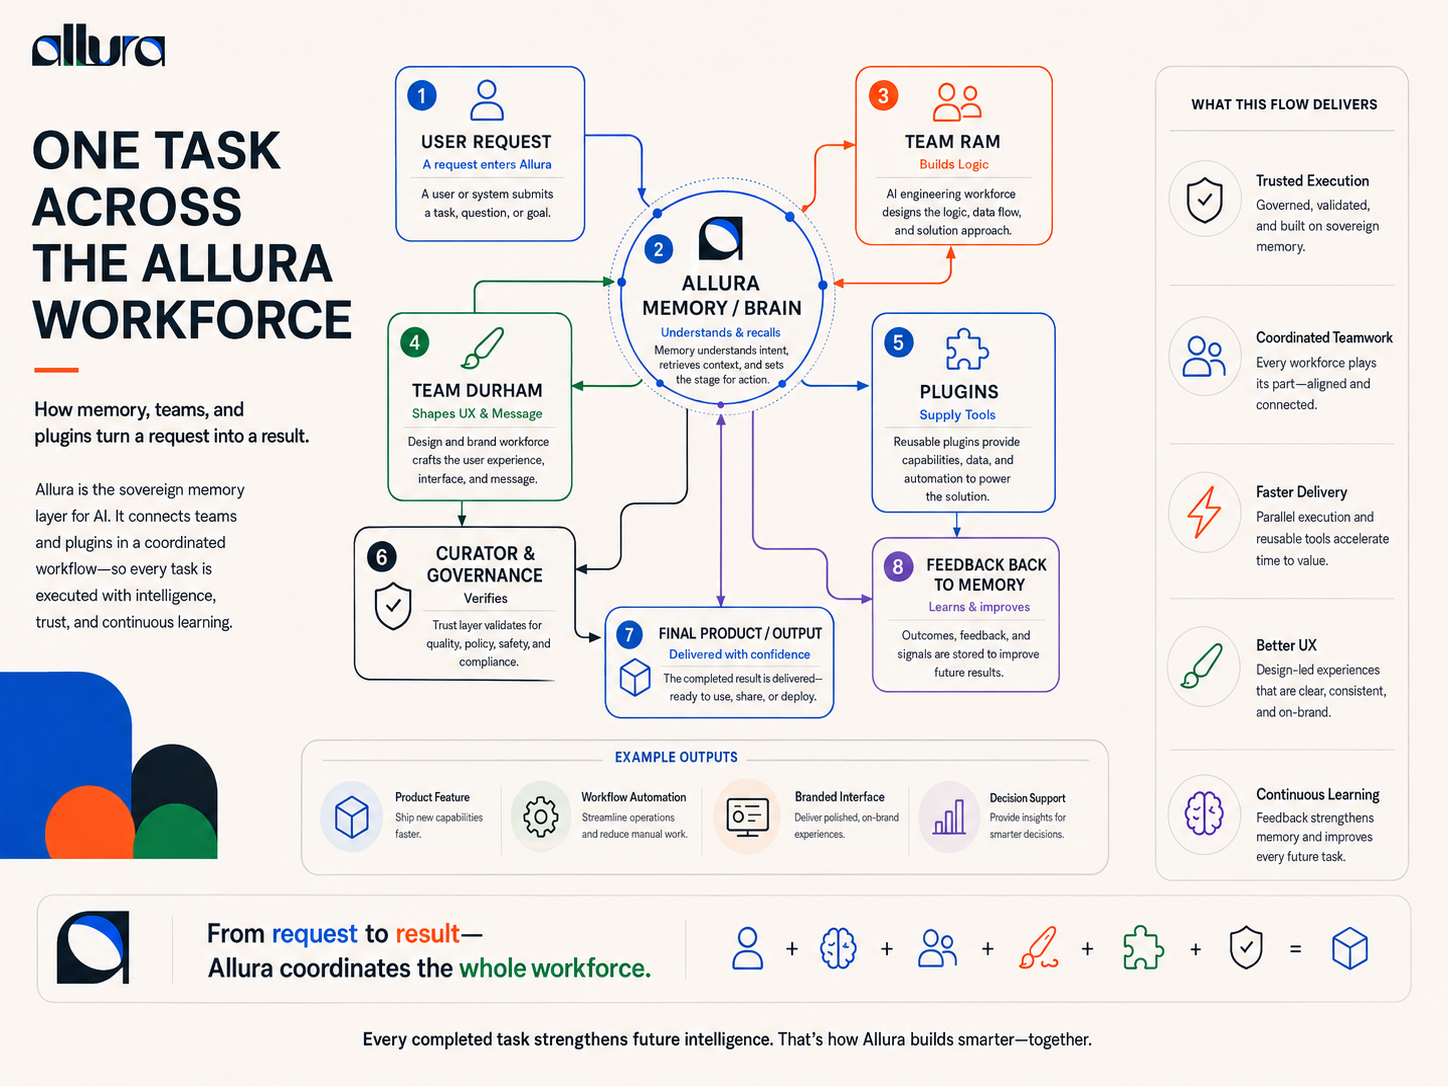
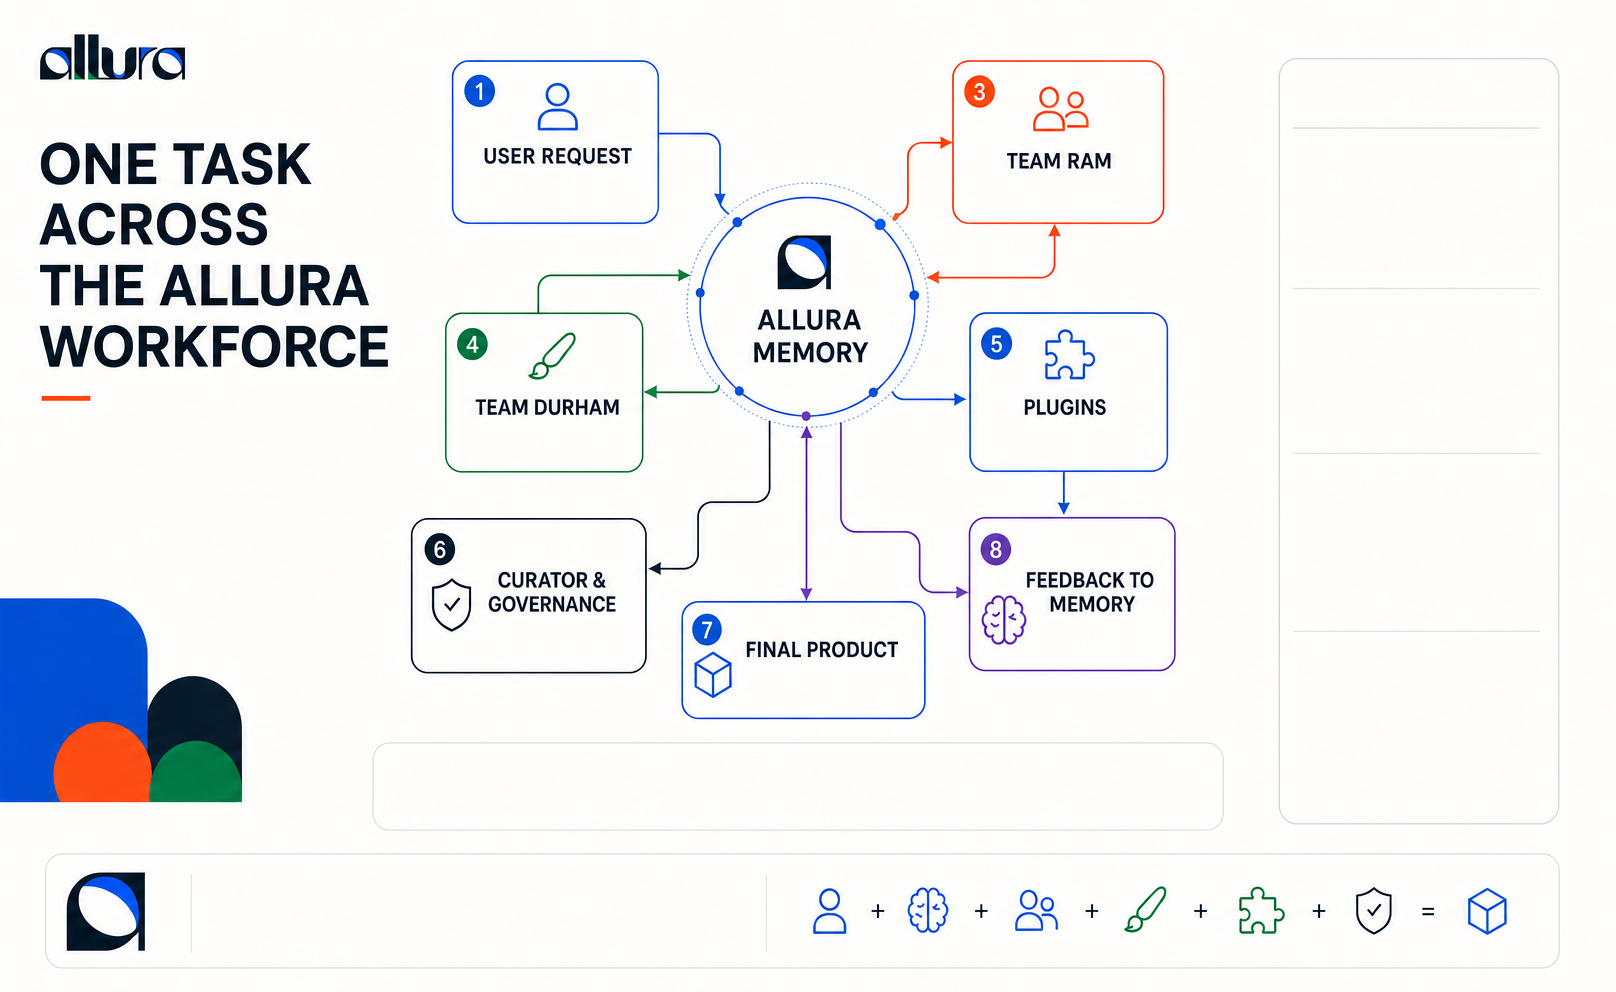
docs(profile): simplify infographic text via fal.ai GPT-Image 2, golden-ratio canvas

diff --git a/assets/ASSET_SOURCES.md b/assets/ASSET_SOURCES.md
@@ -4,10 +4,10 @@
 | --- | --- | --- |
 | `allura-wordmark.png` | Default organization identity | Compact Allura wordmark used by the organization profile. It is a static identity asset, never generated artwork. Do not redraw, recolor, or replace it with generated artwork. |
 | `allura-governance-flow-diagram-v1.png` | Supporting diagram for the organization profile | Governance flow composition ("Governance is part of the flow") from the canonical portfolio reference compositions. Shows the control path — proposed action, policy check, human approval, evidence retention — around the agent workflow. No photographic people; verified against the Allura Brand Style Guide palette (Deep Navy, Coral, Trust Green, Clarity Blue) and carries the official wordmark. |
-| `allura-ecosystem-map-v1.png` | Ecosystem overview infographic | "Allura Ecosystem Map" composition: how memory, teams, and plugins work together around the Allura Memory/Brain core. Brand-palette infographic, no photographic people. |
-| `allura-team-ram-v1.png` | Team RAM infographic | "Team RAM: AI Engineering Workforce" composition: task intake, Brooks orchestration, specialist functions, verification, merge/delivery, and lessons & memory. Brand-palette infographic, no photographic people. |
-| `allura-team-durham-v1.png` | Team Durham infographic | "Team Durham: AI Design & Brand Workforce" composition: discovery, strategy, messaging, UX, UI, accessibility, visual QA, and analytics loop. Brand-palette infographic, no photographic people. |
-| `allura-team-ram-vs-durham-v1.png` | Team comparison infographic | "Team RAM vs Team Durham" composition: where the engineering and design workforces meet, and why both matter. Brand-palette infographic, no photographic people. |
-| `allura-one-task-workforce-v1.png` | End-to-end workflow infographic | "One Task Across the Allura Workforce" composition: how memory, teams, and plugins turn a request into a result, with feedback back to memory. Brand-palette infographic, no photographic people. |
+| `allura-ecosystem-map-v1.png` | Ecosystem overview infographic | "Allura Ecosystem Map" composition: how memory, teams, and plugins work together around the Allura Memory/Brain core. Brand-palette infographic, no photographic people. Edited via fal.ai GPT-Image 2 image-to-image (2026-09-02): text reduced to short core labels, golden-ratio canvas (1616×992). |
+| `allura-team-ram-v1.png` | Team RAM infographic | "Team RAM: AI Engineering Workforce" composition: task intake, Brooks orchestration, specialist functions, verification, merge/delivery, and lessons & memory. Brand-palette infographic, no photographic people. Edited via fal.ai GPT-Image 2 image-to-image (2026-09-02): text reduced to short core labels, golden-ratio canvas (1616×992). |
+| `allura-team-durham-v1.png` | Team Durham infographic | "Team Durham: AI Design & Brand Workforce" composition: discovery, strategy, messaging, UX, UI, accessibility, visual QA, and analytics loop. Brand-palette infographic, no photographic people. Edited via fal.ai GPT-Image 2 image-to-image (2026-09-02): text reduced to short core labels, golden-ratio canvas (1616×992). |
+| `allura-team-ram-vs-durham-v1.png` | Team comparison infographic | "Team RAM vs Team Durham" composition: where the engineering and design workforces meet, and why both matter. Brand-palette infographic, no photographic people. Edited via fal.ai GPT-Image 2 image-to-image (2026-09-02): text reduced to short core labels, golden-ratio canvas (1616×992). |
+| `allura-one-task-workforce-v1.png` | End-to-end workflow infographic | "One Task Across the Allura Workforce" composition: how memory, teams, and plugins turn a request into a result, with feedback back to memory. Brand-palette infographic, no photographic people. Edited via fal.ai GPT-Image 2 image-to-image (2026-09-02): text reduced to short core labels, golden-ratio canvas (1616×992). |
 
 The wordmark is the identity asset. The diagrams are supporting imagery only; substantive capability claims remain in the source-linked profile copy.
